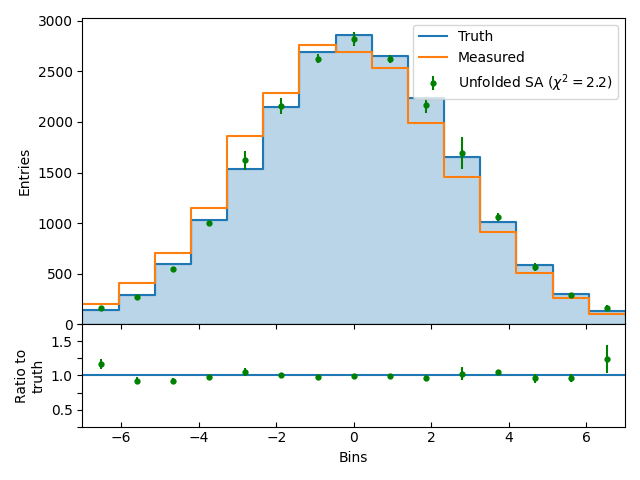
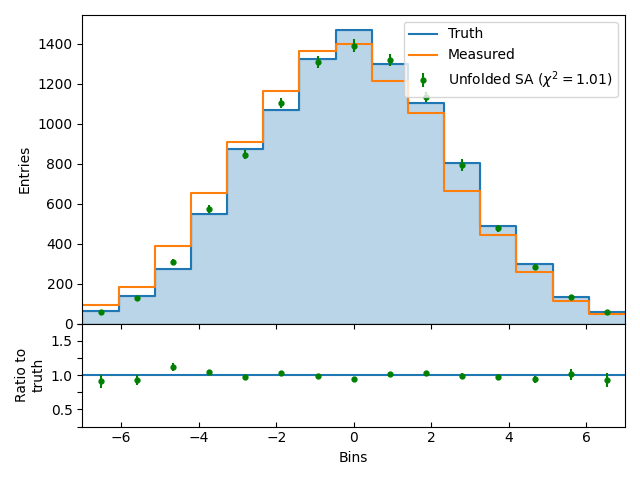
Add computation of errors using toy MC pseudo-experiments, covariance and correlation matrices and chi2

diff --git a/src/QUnfold/core/QUnfoldQUBO.py b/src/QUnfold/core/QUnfoldQUBO.py
@@ -3,6 +3,8 @@ from pyqubo import LogEncInteger
 from dwave.samplers import SimulatedAnnealingSampler
 from dwave.system import LeapHybridSampler
 from dwave.system import DWaveSampler, EmbeddingComposite
+import tqdm
+from scipy.stats import chisquare
 
 
 class QUnfoldQUBO:
@@ -23,6 +25,9 @@ class QUnfoldQUBO:
         self.d = measured
         self.lam = lam
         self.num_log_qubits = 0
+        self.cov_matrix = None
+        self.corr_matrix = None
+        self.solution = None
 
     def set_response(self, response):
         """
@@ -89,17 +94,11 @@ class QUnfoldQUBO:
             list: encoded integer variables.
         """
         num_entries = self._get_expected_num_entries()
-        variables = [
-            LogEncInteger(
-                f"x{i}",
-                value_range=(
-                    -int(num_entries[i] * 0.2),
-                    int(num_entries[i]) + int(num_entries[i] * 0.2) + 1,
-                ),
-            )
-            for i in range(len(self.d))
-        ]
-
+        variables = []
+        for i in range(len(num_entries)):
+            upper = int(num_entries[i] * 1.2) + 1  # Add 20% more
+            var = LogEncInteger(label=f"x{i}", value_range=(0, upper))
+            variables.append(var)
         return variables
 
     def _define_hamiltonian(self, x):
@@ -133,14 +132,42 @@ class QUnfoldQUBO:
 
         Returns:
             numpy.ndarray: the unfolded distribution.
-            numpy.ndarray: the error of the unfolded distribution.
         """
-        decoded_sampleset = self.model.decode_sampleset(sampleset)
-        best_sample = min(decoded_sampleset, key=lambda s: s.energy)
+        best_sample = self.model.decode_sample(sampleset.first.sample, vartype="BINARY")
         solution = np.array([best_sample.subh[label] for label in self.labels])
-        error = np.sqrt(solution)
 
-        return solution, error
+        return solution
+
+    def _compute_error(self, n_toys, solution, solver):
+        """
+        Compute the error of the unfolded distribution using pseudo-experiments in toy Monte Carlo simulations.
+
+        Args:
+            n_toys (int): the number of toy Monte Carlo experiments to be performed.
+            solution (numpy.ndarray): the unfolded distribution.
+            solver (func): a function that computes the unfolded distribution.
+
+        Returns:
+            numpy.ndarray: The errors associated with each bin in the unfolded distribution.
+
+        Raises:
+            ValueError: If the number of toys is not a positive integer.
+        """
+
+        if n_toys == 1:  # No toys case
+            return np.sqrt(solution)
+        else:  # Toys case
+            unfolded_results = np.empty(shape=(n_toys, len(self.d)))
+            for i in tqdm.trange(n_toys, desc="Running on toys"):
+                smeared_d = np.random.poisson(self.d)
+                unfolder = QUnfoldQUBO(self.R, smeared_d, lam=self.lam)
+                unfolder.initialize_qubo_model()
+                unfolded_results[i] = solver(unfolder)
+
+            error = np.std(unfolded_results, axis=0)
+            self.cov_matrix = np.cov(unfolded_results, rowvar=False)
+            self.corr_matrix = np.corrcoef(unfolded_results, rowvar=False)
+            return error
 
     def initialize_qubo_model(self):
         """
@@ -153,52 +180,106 @@ class QUnfoldQUBO:
         self.bqm = self.model.to_bqm()
         self.num_log_qubits = len(self.bqm.variables)
 
-    def solve_simulated_annealing(self, num_reads, seed=None):
+    def solve_simulated_annealing(self, num_reads, seed=None, n_toys=1):
         """
         Compute the unfolded distribution using simulated annealing.
 
         Args:
             num_reads (int): the number of reads used to approximate the solution.
-            seed (int, optional): The seed used to randomize the reads. Defaults to None.
+            seed (int, optional): the seed used to randomize the reads. Defaults to None.
+            n_toys (int, optional): the number of toys needed to compute the error of the unfolded distribution. If 1 the error is computed as the square-root of the number of entries in each bin, otherwise a statistical method based on toys is used. Defaults to 1.
 
         Returns:
             numpy.ndarray: the unfolded distribution.
         """
-        sampler = SimulatedAnnealingSampler()
-        sampleset = sampler.sample(self.bqm, num_reads=num_reads, seed=seed)
-        solution, error = self._post_process_sampleset(sampleset=sampleset)
-        return solution, error
 
-    def solve_hybrid_sampler(self):
+        def solver(unfolder):
+            sampler = SimulatedAnnealingSampler()
+            sampleset = sampler.sample(unfolder.bqm, num_reads=num_reads, seed=seed)
+            solution = unfolder._post_process_sampleset(sampleset=sampleset)
+            return solution
+
+        self.solution = solver(self)
+        error = self._compute_error(n_toys, self.solution, solver)
+
+        return self.solution, error
+
+    def solve_hybrid_sampler(self, n_toys=1):
         """
         Compute the unfolded distribution using hybrid solver.
 
+        Args:
+            n_toys (int, optional): the number of toys needed to compute the error of the unfolded distribution. If 1 the error is computed as the square-root of the number of entries in each bin, otherwise a statistical method based on toys is used. Defaults to 1.
+
         Returns:
             numpy.ndarray: the unfolded distribution.
         """
-        sampler = LeapHybridSampler()
-        sampleset = sampler.sample(self.bqm)
-        decoded_sample = self.model.decode_sampleset(sampleset)[0]
-        solution = np.round(
-            np.array([decoded_sample.subh[label] for label in self.labels])
-        )
-        error = np.sqrt(solution)
-        return solution, error
 
-    def solve_quantum_annealing(self, num_reads):
+        def solver(unfolder):
+            sampler = LeapHybridSampler()
+            sampleset = sampler.sample(unfolder.bqm)
+            decoded_sample = unfolder.model.decode_sampleset(sampleset)[0]
+            solution = np.round(
+                np.array([decoded_sample.subh[label] for label in unfolder.labels])
+            )
+            return solution
+
+        self.solution = solver(self)
+        error = self._compute_error(n_toys, self.solution, solver)
+
+        return self.solution, error
+
+    def solve_quantum_annealing(self, num_reads, n_toys=1):
         """
         Compute the unfolded distribution using quantum annealing.
 
         Args:
             num_reads (int): the number of reads used to approximate the solution.
+            n_toys (int, optional): the number of toys needed to compute the error of the unfolded distribution. If 1 the error is computed as the square-root of the number of entries in each bin, otherwise a statistical method based on toys is used. Defaults to 1.
 
         Returns:
             numpy.ndarray: the unfolded distribution.
         """
-        sampler = EmbeddingComposite(DWaveSampler())
-        sampleset = sampler.sample(self.bqm, num_reads=num_reads)
-        solution, error = self._post_process_sampleset(sampleset=sampleset)
-        return solution, error
+
+        def solver(unfolder):
+            sampler = EmbeddingComposite(DWaveSampler())
+            sampleset = sampler.sample(unfolder.bqm, num_reads=num_reads)
+            solution = unfolder._post_process_sampleset(sampleset=sampleset)
+            return solution
+
+        self.solution = solver(self)
+        error = self._compute_error(n_toys, self.solution, solver)
+
+        return self.solution, error
+
+    def compute_chi2(self, truth, method="std"):
+        """
+        Compute the chi-square statistic for the unfolded distribution.
+
+        Args:
+            truth (array-like): The true distribution against which to compare.
+            method (str, optional): Method for computing chi-square. Options: "std" (use scipy) or "cov" (use covariance matrix). Default is "std".
+
+        Returns:
+            float or None: The computed chi-square statistic, or None if the method is not recognized.
+        """
+        chi2 = None
+        null_indices = truth == 0
+        truth[null_indices] += 1
+        self.solution[null_indices] += 1
+
+        if method == "std":  # Use scipy
+            chi2, _ = chisquare(
+                self.solution,
+                np.sum(self.solution) / np.sum(truth) * truth,
+            )
+        elif method == "cov":  # Use covariance matrix
+            residuals = self.solution - truth
+            inv_covariance_matrix = np.linalg.inv(self.cov_matrix)
+            chi2 = residuals.T @ inv_covariance_matrix @ residuals
+
+        dof = len(self.solution)
+        return chi2 / dof
 
     def compute_energy(self, x):
         """

diff --git a/src/QUnfold/plot/QUnfoldPlotter.py b/src/QUnfold/plot/QUnfoldPlotter.py
@@ -8,7 +8,7 @@ class QUnfoldPlotter:
     Class used to plot QUnfold data and results.
     """
 
-    def __init__(self, response, measured, truth, unfolded, error, binning):
+    def __init__(self, response, measured, truth, unfolded, error, binning, chi2):
         """
         Constructs a QUnfoldPlotter class for visualizing unfolding results.
 
@@ -19,6 +19,7 @@ class QUnfoldPlotter:
             unfolded (np.array): The unfolded distribution.
             error (np.array): The error on the unfolded distribution.
             binning (np.array): The binning information for the histograms.
+            chi2 (float): The chi2 used in the plot.
         """
 
         self.response = response
@@ -27,6 +28,7 @@ class QUnfoldPlotter:
         self.unfolded = unfolded
         self.error = error
         self.binning = binning
+        self.chi2 = chi2
 
     def __plotResponseSetup(self):
         """
@@ -72,33 +74,6 @@ class QUnfoldPlotter:
         plt.savefig(path)
         plt.close()
 
-    def _compute_chi2_dof(self, unfolded, truth):
-        """
-        Compute the chi-squared per degree of freedom (chi2/dof) between two distributions.
-
-        Args:
-            unfolded (numpy.array): The unfolded distribution bin contents.
-            truth (numpy.array): The truth distribution bin contents.
-
-        Returns:
-            float: The chi-squared per degree of freedom.
-        """
-
-        # Trick for chi2 convergence
-        null_indices = truth == 0
-        truth[null_indices] += 1
-        unfolded[null_indices] += 1
-
-        # Compute chi2
-        chi2, _ = chisquare(
-            unfolded,
-            np.sum(unfolded) / np.sum(truth) * truth,
-        )
-        dof = len(unfolded) - 1
-        chi2_dof = chi2 / dof
-
-        return chi2_dof
-
     def __plotSetup(self, method):
         """
         Create an histogram comparison among measured, truth and unfolded distributions, with the chi2 among unfolded and truth distribution.
@@ -132,7 +107,7 @@ class QUnfoldPlotter:
         # Plot unfolded histogram with chi2 test
         binwidths = np.diff(self.binning)
         bin_midpoints = self.binning[:-1] + binwidths / 2
-        chi2 = round(self._compute_chi2_dof(self.unfolded, self.truth), 2)
+        chi2 = round(self.chi2, 2)
         label = rf"Unfolded {method} ($\chi^2 = {chi2}$)"
         ax1.errorbar(
             x=bin_midpoints,

diff --git a/examples/simneal_script.py b/examples/simneal_script.py
@@ -5,7 +5,7 @@ from QUnfold.utility import normalize_response
 
 if __name__ == "__main__":
     # Set parameters for data generation
-    num_entries = 20000
+    num_entries = 10000
     num_bins = 15
     min_bin = -7.0
     max_bin = 7.0
@@ -23,8 +23,9 @@ if __name__ == "__main__":
     reco_data = mc_data + np.random.normal(
         loc=mean_smear, scale=std_smear, size=num_entries
     )
-    response, _, _ = np.histogram2d(reco_data, mc_data, bins=bins)
-    mc_truth, _ = np.histogram(mc_data, bins=bins)
+    binning = np.array([-np.inf] + bins.tolist() + [np.inf])
+    response, _, _ = np.histogram2d(reco_data, mc_data, bins=binning)
+    mc_truth, _ = np.histogram(mc_data, bins=binning)
     response = normalize_response(response, mc_truth)
 
     # Generate random true data
@@ -36,22 +37,26 @@ if __name__ == "__main__":
     )
 
     # Generate truth and measured histograms
-    truth, _ = np.histogram(true_data, bins=bins)
-    measured, _ = np.histogram(meas_data, bins=bins)
+    truth, _ = np.histogram(true_data, bins=binning)
+    measured, _ = np.histogram(meas_data, bins=binning)
 
     # Run simulated annealing to solve QUBO problem
     unfolder = QUnfoldQUBO(response, measured, lam=0.1)
     unfolder.initialize_qubo_model()
-    unfolded, error = unfolder.solve_simulated_annealing(num_reads=100, seed=seed)
+    unfolded, error = unfolder.solve_simulated_annealing(
+        num_reads=10, seed=seed, n_toys=100
+    )
+    print(unfolder.compute_chi2(truth, "std"))
 
     # Plot unfolding result
     plotter = QUnfoldPlotter(
-        response=response,
-        measured=measured,
-        truth=truth,
-        unfolded=unfolded,
-        error=error,
+        response=response[1:-1, 1:-1],
+        measured=measured[1:-1],
+        truth=truth[1:-1],
+        unfolded=unfolded[1:-1],
+        error=error[1:-1],
         binning=bins,
+        chi2=unfolder.compute_chi2(truth, "std"),
     )
     plotter.saveResponse("examples/simneal_response.png")
     plotter.savePlot("examples/simneal_result.png", method="SA")

diff --git a/tests/test_QUnfoldQUBO.py b/tests/test_QUnfoldQUBO.py
@@ -50,3 +50,28 @@ def test_get_laplacian():
         [[-1, 1, 0, 0], [1, -2, 1, 0], [0, 1, -2, 1], [0, 0, 1, -1]]
     )
     assert np.array_equal(laplacian_matrix_4x4, expected_matrix_4x4)
+
+
+def test_statistics():
+    """
+    Test the statistics of the QUnfoldQUBO class (covariance, chi2, etc...).
+    """
+
+    R = np.array([[1, 2], [3, 4]])
+    meas = np.array([0.5, 0.5])
+    unfolder = QUnfoldQUBO(R, meas, lam=0.1)
+    unfolder.initialize_qubo_model()
+    unfolder.solve_simulated_annealing(num_reads=10, n_toys=1000)
+
+    # Test covariance and correlation
+    cov = unfolder.cov_matrix
+    corr = unfolder.corr_matrix
+    assert cov.shape == (2, 2)
+    assert corr.shape == (2, 2)
+
+    # Test chi2
+    truth = np.array([0.5, 0.5])
+    chi2_std = unfolder.compute_chi2(truth, method="std")
+    chi2_cov = unfolder.compute_chi2(truth, method="cov")
+    assert chi2_std != None
+    assert chi2_cov != None
